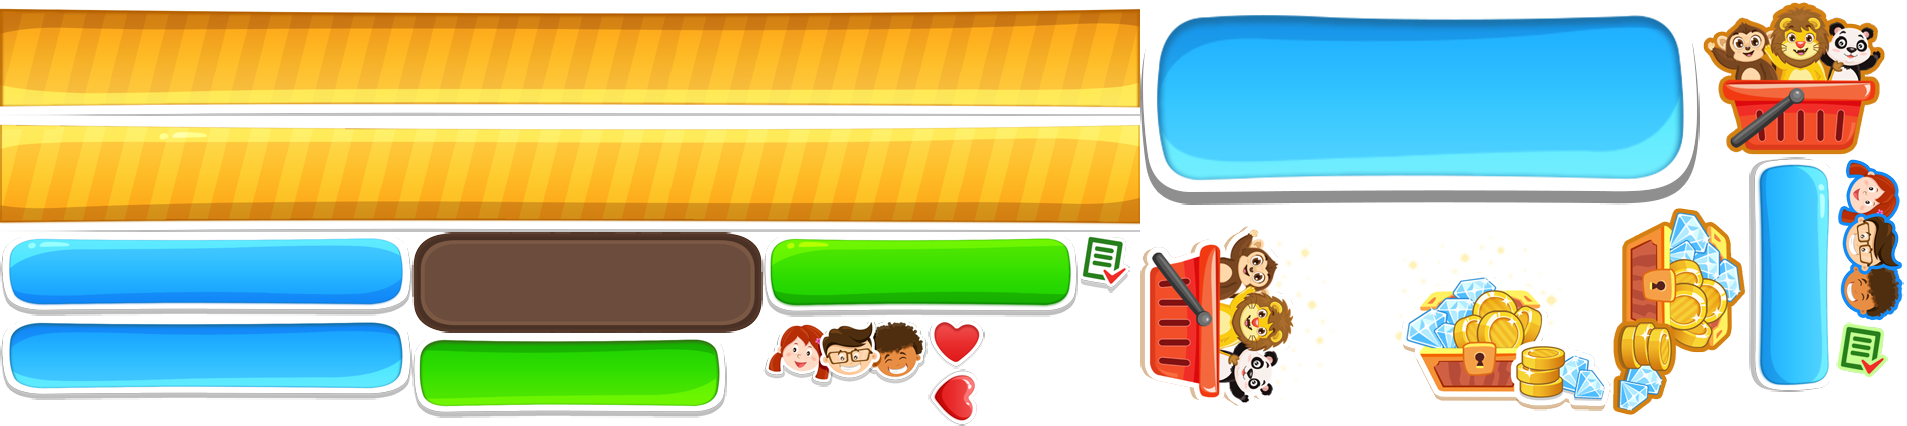
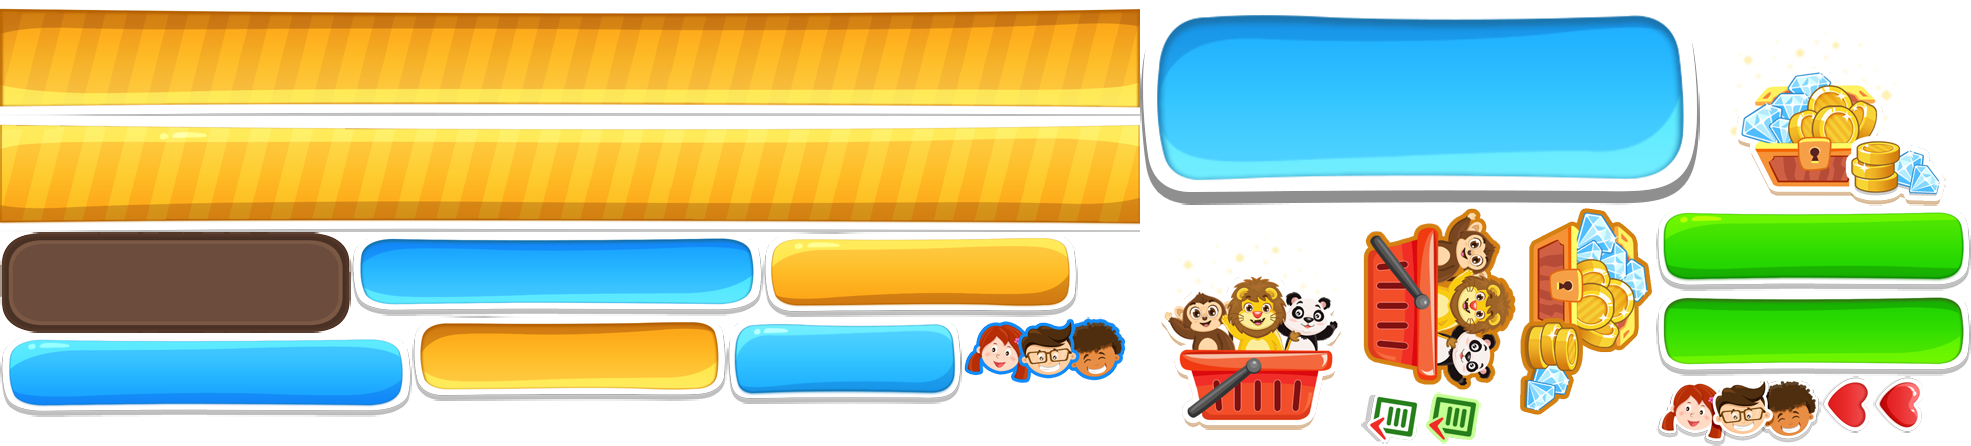
move save progress to menu, add save progress button assests

diff --git a/src/layers/MainApp/GrownUpMenuLayer.js b/src/layers/MainApp/GrownUpMenuLayer.js
@@ -13,6 +13,7 @@ var GrownUpMenuLayer = cc.LayerColor.extend({
         this._addFeaturesBtn();
         this._addAboutUsBtn();
         this.addBackButton();
+        this.addSaveProgressButton();
         this.addText();
         cc.eventManager.addListener({
             event: cc.EventListener.TOUCH_ONE_BY_ONE,
@@ -212,81 +213,81 @@ var GrownUpMenuLayer = cc.LayerColor.extend({
     },
 
     _addFeaturesBtn: function() {
-        var _progressTrackerBtn, _payBtn, _shareBtn;
+        var progressTrackerBtn, payBtn, shareBtn;
         this._featuresLayer = new cc.Layer();
         this.addChild(this._featuresLayer);
 
-        _progressTrackerBtn = new ccui.Button("btn_green_wide.png", "btn_green_wide_pressed.png", "", ccui.Widget.PLIST_TEXTURE);
-        _progressTrackerBtn.name = "ProgressTracker";
-        _progressTrackerBtn.anchorX = 0;
-        _progressTrackerBtn.scale = 1.1;
-        _progressTrackerBtn.x = 80;
-        _progressTrackerBtn.y = cc.winSize.height/2 + _progressTrackerBtn.height/2 + this._featuresBtnOffSetY;
-        _progressTrackerBtn.addClickEventListener(this._btnPressed.bind(this));
-        var _progressTrackerBtnNormal = _progressTrackerBtn.getRendererNormal();
+        progressTrackerBtn = new ccui.Button("btn_green_wide.png", "btn_green_wide_pressed.png", "", ccui.Widget.PLIST_TEXTURE);
+        progressTrackerBtn.name = "ProgressTracker";
+        progressTrackerBtn.anchorX = 0;
+        progressTrackerBtn.scale = 1.1;
+        progressTrackerBtn.x = 80;
+        progressTrackerBtn.y = cc.winSize.height/2 + progressTrackerBtn.height/2 + this._featuresBtnOffSetY;
+        progressTrackerBtn.addClickEventListener(this._btnPressed.bind(this));
+        var progressTrackerBtnNormal = progressTrackerBtn.getRendererNormal();
         var iconProgressTracker = new cc.Sprite("#icon-progress-tracker.png");
         iconProgressTracker.anchorX = 1;
-        iconProgressTracker.x = _progressTrackerBtnNormal.width - 10;
-        iconProgressTracker.y = _progressTrackerBtnNormal.height/2;
+        iconProgressTracker.x = progressTrackerBtnNormal.width - 10;
+        iconProgressTracker.y = progressTrackerBtnNormal.height/2;
         iconProgressTracker.tag = 0;
         iconProgressTracker.name = "icon-progress-tracker";
-        _progressTrackerBtnNormal.addChild(iconProgressTracker);
-        // _progressTrackerBtn.addChild(iconProgressTracker);
+        progressTrackerBtnNormal.addChild(iconProgressTracker);
+        // progressTrackerBtn.addChild(iconProgressTracker);
 
-        var _progressTrackerBtnClick = _progressTrackerBtn.getRendererClicked();
+        var progressTrackerBtnClick = progressTrackerBtn.getRendererClicked();
         var iconProgressTrackerPressed = new cc.Sprite("#icon-progress-tracker-pressed.png");
         iconProgressTrackerPressed.anchorX = 1;
-        iconProgressTrackerPressed.x = _progressTrackerBtnClick.width - 10;
-        iconProgressTrackerPressed.y = _progressTrackerBtnClick.height/2;
+        iconProgressTrackerPressed.x = progressTrackerBtnClick.width - 10;
+        iconProgressTrackerPressed.y = progressTrackerBtnClick.height/2;
         iconProgressTrackerPressed.tag = 0;
         iconProgressTrackerPressed.name = "icon-progress-tracker";
-        _progressTrackerBtnClick.addChild(iconProgressTrackerPressed);
-        // _progressTrackerBtn.addTouchEventListener(this.touchEvent, this);
+        progressTrackerBtnClick.addChild(iconProgressTrackerPressed);
+        // progressTrackerBtn.addTouchEventListener(this.touchEvent, this);
 
-        _shareBtn = new ccui.Button("btn_blue_wide.png", "btn_blue_wide_pressed.png", "", ccui.Widget.PLIST_TEXTURE);
-        _shareBtn.name = "Share";
-        _shareBtn.anchorX = 1;
-        _shareBtn.scale = 1.1;
-        _shareBtn.x = cc.winSize.width - 80;
-        _shareBtn.y = cc.winSize.height/2 + _progressTrackerBtn.height/2 + this._featuresBtnOffSetY;
-        _shareBtn.addClickEventListener(this._btnPressed.bind(this));
-        var _shareBtnNormal = _shareBtn.getRendererNormal();
+        shareBtn = new ccui.Button("btn_blue_wide.png", "btn_blue_wide_pressed.png", "", ccui.Widget.PLIST_TEXTURE);
+        shareBtn.name = "Share";
+        shareBtn.anchorX = 1;
+        shareBtn.scale = 1.1;
+        shareBtn.x = cc.winSize.width - 80;
+        shareBtn.y = cc.winSize.height/2 + progressTrackerBtn.height/2 + this._featuresBtnOffSetY;
+        shareBtn.addClickEventListener(this._btnPressed.bind(this));
+        var shareBtnNormal = shareBtn.getRendererNormal();
         var iconFaceChild = new cc.Sprite("#childrenface.png");
         iconFaceChild.anchorX = 1;
         iconFaceChild.tag = 0;
         iconFaceChild.name = "childrenface";
-        iconFaceChild.x = _shareBtnNormal.width - 10;
-        iconFaceChild.y = _shareBtnNormal.height/2;
-        _shareBtnNormal.addChild(iconFaceChild);
-        // _shareBtn.addTouchEventListener(this.touchEvent, this);
+        iconFaceChild.x = shareBtnNormal.width - 10;
+        iconFaceChild.y = shareBtnNormal.height/2;
+        shareBtnNormal.addChild(iconFaceChild);
+        // shareBtn.addTouchEventListener(this.touchEvent, this);
 
-        var _shareBtnClick = _shareBtn.getRendererClicked();
+        var shareBtnClick = shareBtn.getRendererClicked();
         var iconFaceChildPressed = new cc.Sprite("#childrenface-pressed.png");
         iconFaceChildPressed.anchorX = 1;
         iconFaceChildPressed.tag = 0;
         iconFaceChildPressed.name = "childrenface";
-        iconFaceChildPressed.x = _shareBtnClick.width - 10;
-        iconFaceChildPressed.y = _shareBtnClick.height/2;
-        _shareBtnClick.addChild(iconFaceChildPressed);
+        iconFaceChildPressed.x = shareBtnClick.width - 10;
+        iconFaceChildPressed.y = shareBtnClick.height/2;
+        shareBtnClick.addChild(iconFaceChildPressed);
 
-        _payBtn = new ccui.Button("button-yellow.png", "button-yellow-pressed.png", "", ccui.Widget.PLIST_TEXTURE);
-        _payBtn.name = "Pay";
-        _payBtn.anchorX = 0;
-        _payBtn.anchorY = 0;
-        _payBtn.x = 0;
-        _payBtn.y = 0;
-        _payBtn.addClickEventListener(this._btnPressed.bind(this));
-        _payBtn.setContentSize(cc.size(cc.winSize.width, _payBtn.height));
-        _payBtnTitle = CustomLabel.createWithTTF(res.HELVETICARDBLK_ttf.srcs[0], 
+        payBtn = new ccui.Button("button-yellow.png", "button-yellow-pressed.png", "", ccui.Widget.PLIST_TEXTURE);
+        payBtn.name = "Pay";
+        payBtn.anchorX = 0;
+        payBtn.anchorY = 0;
+        payBtn.x = 0;
+        payBtn.y = 0;
+        payBtn.addClickEventListener(this._btnPressed.bind(this));
+        payBtn.setContentSize(cc.size(cc.winSize.width, payBtn.height));
+        payBtnTitle = CustomLabel.createWithTTF(res.HELVETICARDBLK_ttf.srcs[0], 
                                                 38, 
                                                 cc.color("#b15a10"), 
                                                 3,
                                                 localizeForWriting("Pay what's in your"));
-        _payBtnTitle.x = cc.winSize.width/2;
-        _payBtnTitle.y = _payBtn.height/2 + 10;
-        _payBtn.addChild(_payBtnTitle);
+        payBtnTitle.x = cc.winSize.width/2;
+        payBtnTitle.y = payBtn.height/2 + 10;
+        payBtn.addChild(payBtnTitle);
         
-        var normalPay = _payBtn.getRendererNormal();
+        var normalPay = payBtn.getRendererNormal();
         var normalCoin = new cc.Sprite("#icon-coin.png");
         normalCoin.anchorX = 0;
         normalCoin.x = 35;
@@ -298,11 +299,11 @@ var GrownUpMenuLayer = cc.LayerColor.extend({
         normalAnimal.y = normalPay.height + 30;
         normalPay.addChild(normalAnimal);
         var normalHeart = new cc.Sprite("#icon-heart.png");
-        normalHeart.x = _payBtnTitle.x + _payBtnTitle.width/2 + 35;
-        normalHeart.y = _payBtn.height/2;
+        normalHeart.x = payBtnTitle.x + payBtnTitle.width/2 + 35;
+        normalHeart.y = payBtn.height/2;
         normalPay.addChild(normalHeart);
 
-        var clickPay = _payBtn.getRendererClicked();
+        var clickPay = payBtn.getRendererClicked();
         var clickCoin = new cc.Sprite("#icon-coin-pressed.png");
         clickCoin.anchorX = 0;
         clickCoin.x = 35;
@@ -314,8 +315,8 @@ var GrownUpMenuLayer = cc.LayerColor.extend({
         clickAnimal.y = clickPay.height + 30;
         clickPay.addChild(clickAnimal);
         var clickHeart = new cc.Sprite("#icon-heart-pressed.png");
-        clickHeart.x = _payBtnTitle.x + _payBtnTitle.width/2 + 35;
-        clickHeart.y = _payBtn.height/2;
+        clickHeart.x = payBtnTitle.x + payBtnTitle.width/2 + 35;
+        clickHeart.y = payBtn.height/2;
         clickPay.addChild(clickHeart);
 
         var userIdLabel = new cc.LabelBMFont("User ID: " + User.getCurrentUser().getId(), "res/font/grownupcheckfont-export.fnt");
@@ -325,17 +326,17 @@ var GrownUpMenuLayer = cc.LayerColor.extend({
         userIdLabel.y = 50;
         this._featuresLayer.addChild(userIdLabel);
 
-        _progressTrackerBtn.addChild(this._createBtnTitle(localizeForWriting("Progress Tracker"), _progressTrackerBtn));
-        // _payBtn.addChild(this._createBtnTitle(localizeForWriting("Pay what's in your"), _payBtn, - 20));
-        _shareBtn.addChild(this._createBtnTitle(localizeForWriting("Share the message"), _shareBtn));
+        progressTrackerBtn.addChild(this._createBtnTitle(localizeForWriting("Progress Tracker"), progressTrackerBtn));
+        // payBtn.addChild(this._createBtnTitle(localizeForWriting("Pay what's in your"), payBtn, - 20));
+        shareBtn.addChild(this._createBtnTitle(localizeForWriting("Share the message"), shareBtn));
 
-        this._featuresLayer.addChild(_progressTrackerBtn);
-        this._featuresLayer.addChild(_payBtn);
-        this._featuresLayer.addChild(_shareBtn);
+        this._featuresLayer.addChild(progressTrackerBtn);
+        this._featuresLayer.addChild(payBtn);
+        this._featuresLayer.addChild(shareBtn);
     },
 
     _addAboutUsBtn: function() {
-        var _likeUsBtn, _followUsBtn, _shareBtn;
+        var _likeUsBtn, _followUsBtn, shareBtn;
         this._aboutUsLayer = new cc.Layer();
         this._aboutUsLayer.visible = false;
         this.addChild(this._aboutUsLayer);
@@ -353,19 +354,19 @@ var GrownUpMenuLayer = cc.LayerColor.extend({
         buttonBg.y = lb.y - 50;
         this._aboutUsLayer.addChild(buttonBg);
 
-        _shareBtn = new ccui.Button("res/SD/aboutus/share-button-aboutus.png", "res/SD/aboutus/share-button-aboutus-pressed.png", "");
-        _shareBtn.name = "Share";
-        _shareBtn.anchorX = 0;
-        _shareBtn.x = 60;
-        _shareBtn.y = buttonBg.height/2;
-        _shareBtn.addClickEventListener(this._btnPressed.bind(this));
-        buttonBg.addChild(_shareBtn);
+        shareBtn = new ccui.Button("res/SD/aboutus/share-button-aboutus.png", "res/SD/aboutus/share-button-aboutus-pressed.png", "");
+        shareBtn.name = "Share";
+        shareBtn.anchorX = 0;
+        shareBtn.x = 60;
+        shareBtn.y = buttonBg.height/2;
+        shareBtn.addClickEventListener(this._btnPressed.bind(this));
+        buttonBg.addChild(shareBtn);
 
         _likeUsBtn = new ccui.Button(res.Button_facebook_normal_png, res.Button_facebook_pressed_png);
         _likeUsBtn.name = "LikeUs";
         _likeUsBtn.anchorY = 0;
-        _likeUsBtn.x = _shareBtn.x + _shareBtn.width + _likeUsBtn.width/2 + 70;
-        _likeUsBtn.y = _shareBtn.y - _shareBtn.height/2;
+        _likeUsBtn.x = shareBtn.x + shareBtn.width + _likeUsBtn.width/2 + 70;
+        _likeUsBtn.y = shareBtn.y - shareBtn.height/2;
         _likeUsBtn.addClickEventListener(this._btnPressed.bind(this));
         buttonBg.addChild(_likeUsBtn);
         var lbLikeUs = new cc.LabelBMFont(localizeForWriting("Like us"), res.HomeFont_fnt);
@@ -379,7 +380,7 @@ var GrownUpMenuLayer = cc.LayerColor.extend({
         _followUsBtn.name = "FollowUs";
         _followUsBtn.anchorY = 0;
         _followUsBtn.x = _likeUsBtn.x + _likeUsBtn.width + _followUsBtn.width/2 + 40;
-        _followUsBtn.y = _shareBtn.y - _shareBtn.height/2;
+        _followUsBtn.y = shareBtn.y - shareBtn.height/2;
         _followUsBtn.addClickEventListener(this._btnPressed.bind(this));
         buttonBg.addChild(_followUsBtn);
         var lbFollowUs = new cc.LabelBMFont(localizeForWriting("Follow us"), res.HomeFont_fnt);
@@ -551,6 +552,29 @@ var GrownUpMenuLayer = cc.LayerColor.extend({
         });
     },
 
+    addSaveProgressButton: function(){
+        var button = new ccui.Button("btn_save_progress.png", "btn_save_progress_pressed.png", "", ccui.Widget.PLIST_TEXTURE);
+        button.anchorX = 0;
+        button.scale = 1.1;
+        button.x = 80;
+        button.name = "Save";
+        button.y = cc.winSize.height/2 - this._featuresBtnOffSetY;
+        this._featuresLayer.addChild(button);
+        var self = this;
+        button.addClickEventListener(function() {
+            AudioManager.getInstance().play(res.ui_click_mp3_0, false, null);
+            if (!FirebaseManager.getInstance().isLoggedIn()) {
+                LoadingIndicator.show();
+                FirebaseManager.getInstance().login(function(succeed, msg) {
+                    LoadingIndicator.hide();
+                    // debugLog("login succeed -> " + succeed);
+                });
+            }
+        });
+        
+        button.addChild(this._createBtnTitle(localizeForWriting("Save Progress"), button, button.width/4 - 35));
+    },
+
 });
 
 var labelConfig = {
@@ -577,6 +601,16 @@ var labelConfig = {
     "ProgressTracker": {
         "color": "#18a401",
         "shadowColor": [17, 160, 0, 127],
+        "shadowSize": 2,
+        "shadowRadius": 6,
+        "fontSize": 22,
+        "outlineSize": 1.5,
+        "boundingWidthRatio": 1,
+        "boundingHeightRatio": 0.3
+    },
+    "Save": {
+        "color": "#b15a10",
+        "shadowColor": [167, 90, 0, 127],
         "shadowSize": 2,
         "shadowRadius": 6,
         "fontSize": 22,

diff --git a/src/layers/MainApp/HomeScreenLayer.js b/src/layers/MainApp/HomeScreenLayer.js
@@ -26,7 +26,6 @@ var HomeScreenLayer = cc.Layer.extend({
         this._playBeginHomeCutScene = playBeginHomeCutScene || false;
         if (this._playBeginHomeCutScene)
             this.playBeginHomeCutScene();
-        this.addSaveProgressButton();
     },
 
     addProgressTrackerButton: function(){
@@ -44,33 +43,6 @@ var HomeScreenLayer = cc.Layer.extend({
         });
         
         var text = localizeForWriting("Parents");
-        var lb = new cc.LabelBMFont(text, res.Grown_Up_fnt);
-        lb.scale = (button.width * 0.8) / lb.width;
-        lb.x = button.width/2;
-        lb.y = button.height/2 + 3;
-        button.addChild(lb);
-    },
-
-    addSaveProgressButton: function(){
-        var button = new ccui.Button("res/SD/grownup/button-grown-up.png", "res/SD/grownup/button-grown-up-pressed.png", "");
-        button.x = button.width/2 + 10;
-        button.y = cc.winSize.height - button.height + 10;
-        this.addChild(button);
-        var self = this;
-        button.addClickEventListener(function() {
-            AudioManager.getInstance().play(res.ui_click_mp3_0, false, null);
-            if (!FirebaseManager.getInstance().isLoggedIn()) {
-                LoadingIndicator.show();
-                cc.director.pause();
-                FirebaseManager.getInstance().login(function(succeed, msg) {
-                    cc.director.resume();
-                    LoadingIndicator.hide();
-                    debugLog("login succeed -> " + succeed);
-                });
-            }
-        });
-        
-        var text = localizeForWriting("Save Progress");
         var lb = new cc.LabelBMFont(text, res.Grown_Up_fnt);
         lb.scale = (button.width * 0.8) / lb.width;
         lb.x = button.width/2;

diff --git a/src/meerkat/FirebaseManager.js b/src/meerkat/FirebaseManager.js
@@ -141,7 +141,7 @@ var FirebaseManager = cc.Class.extend({
                 user.selectChild(user.getChildrenIds()[0], function() {
                     finishCallback(true);
                 });
-
+                var inviteeId = linkedAccountInfo.uid;
                 var dynamicLink = user.getDynamicLink();
                 var postedData = {
                     "longDynamicLink": cc.formatStr(DYNAMIC_LINK, inviteeId)
